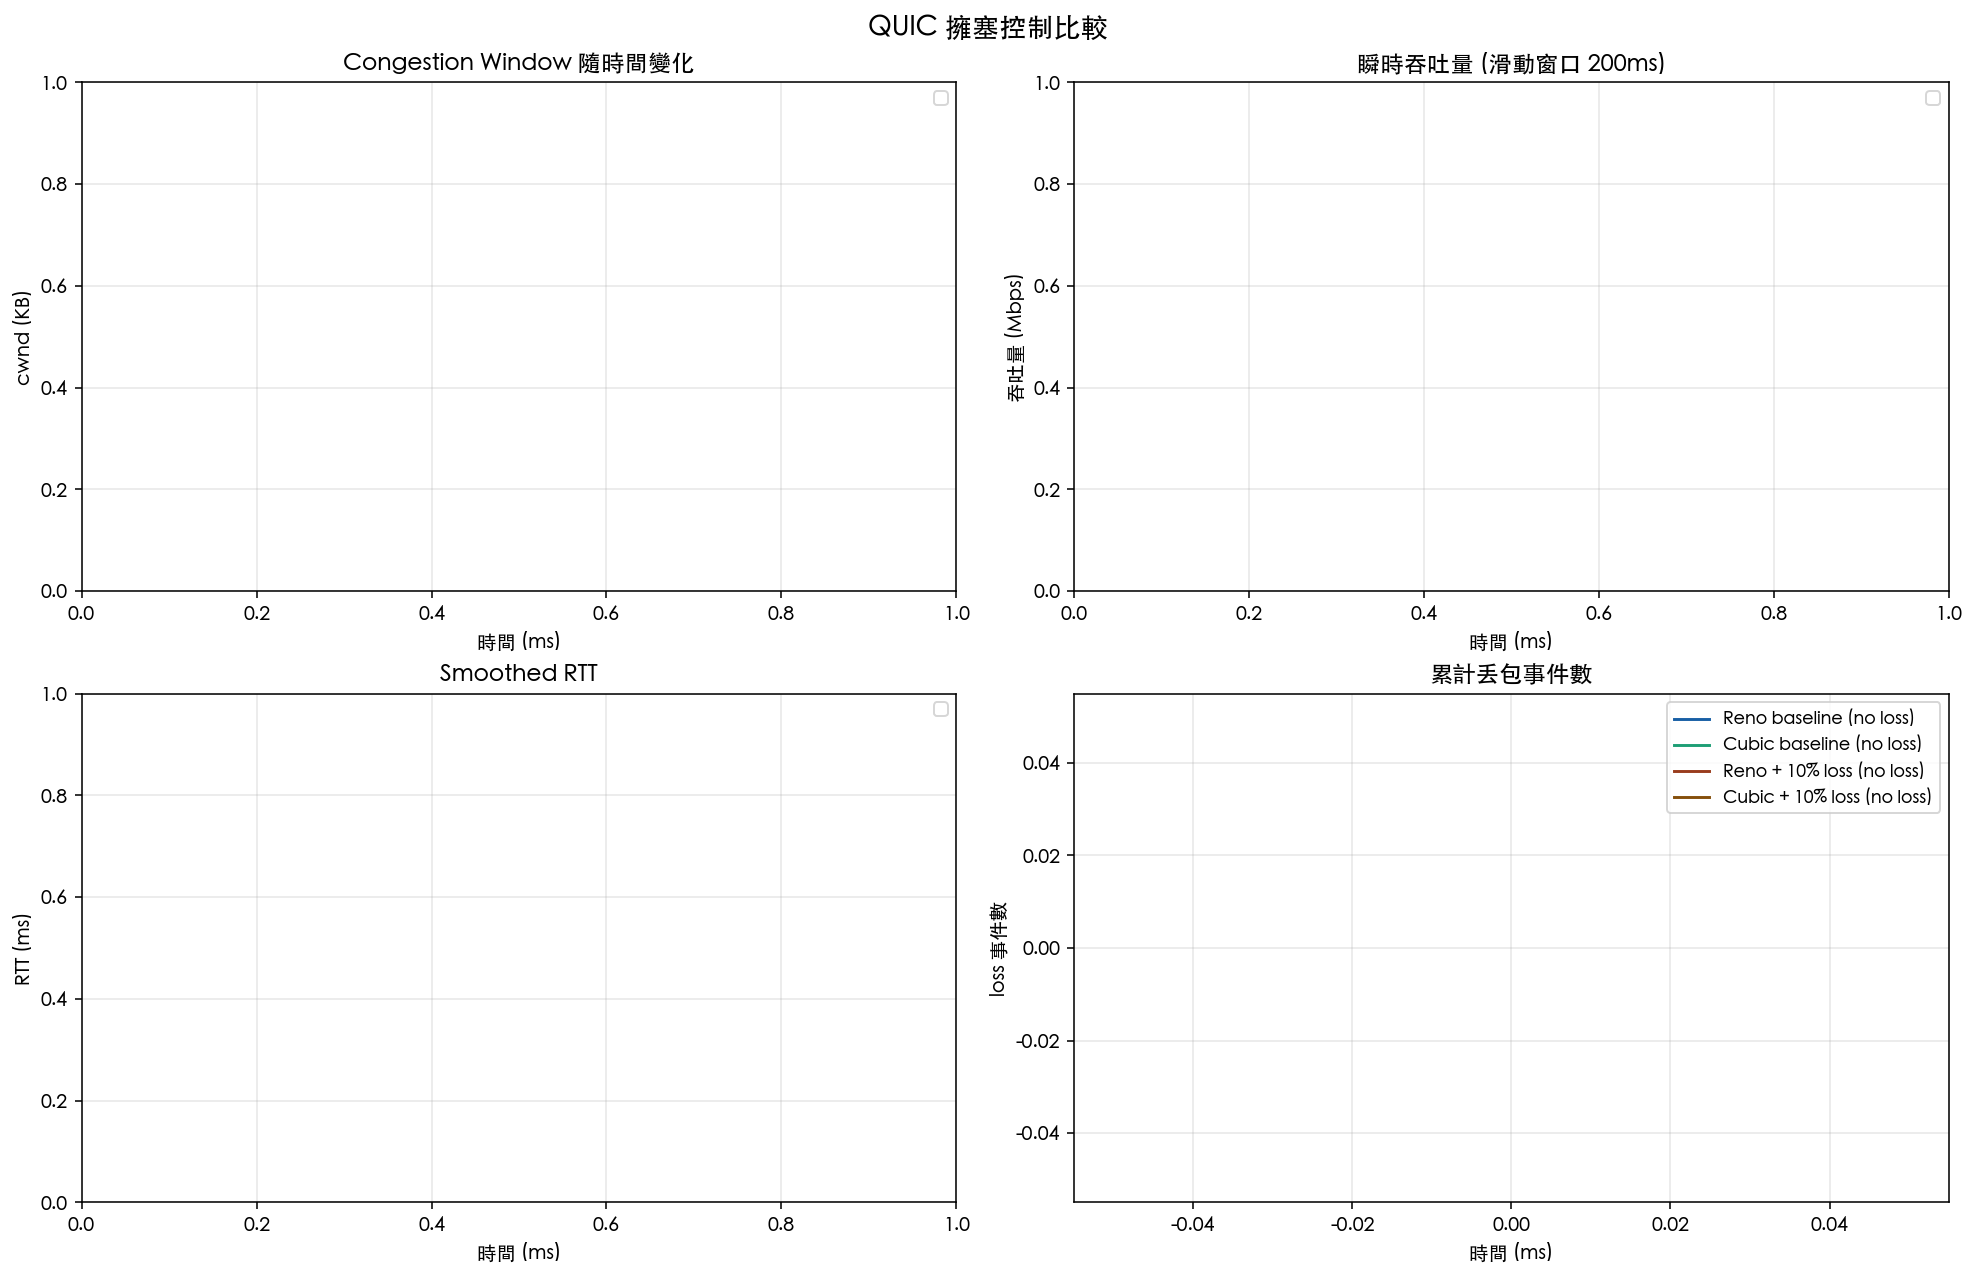
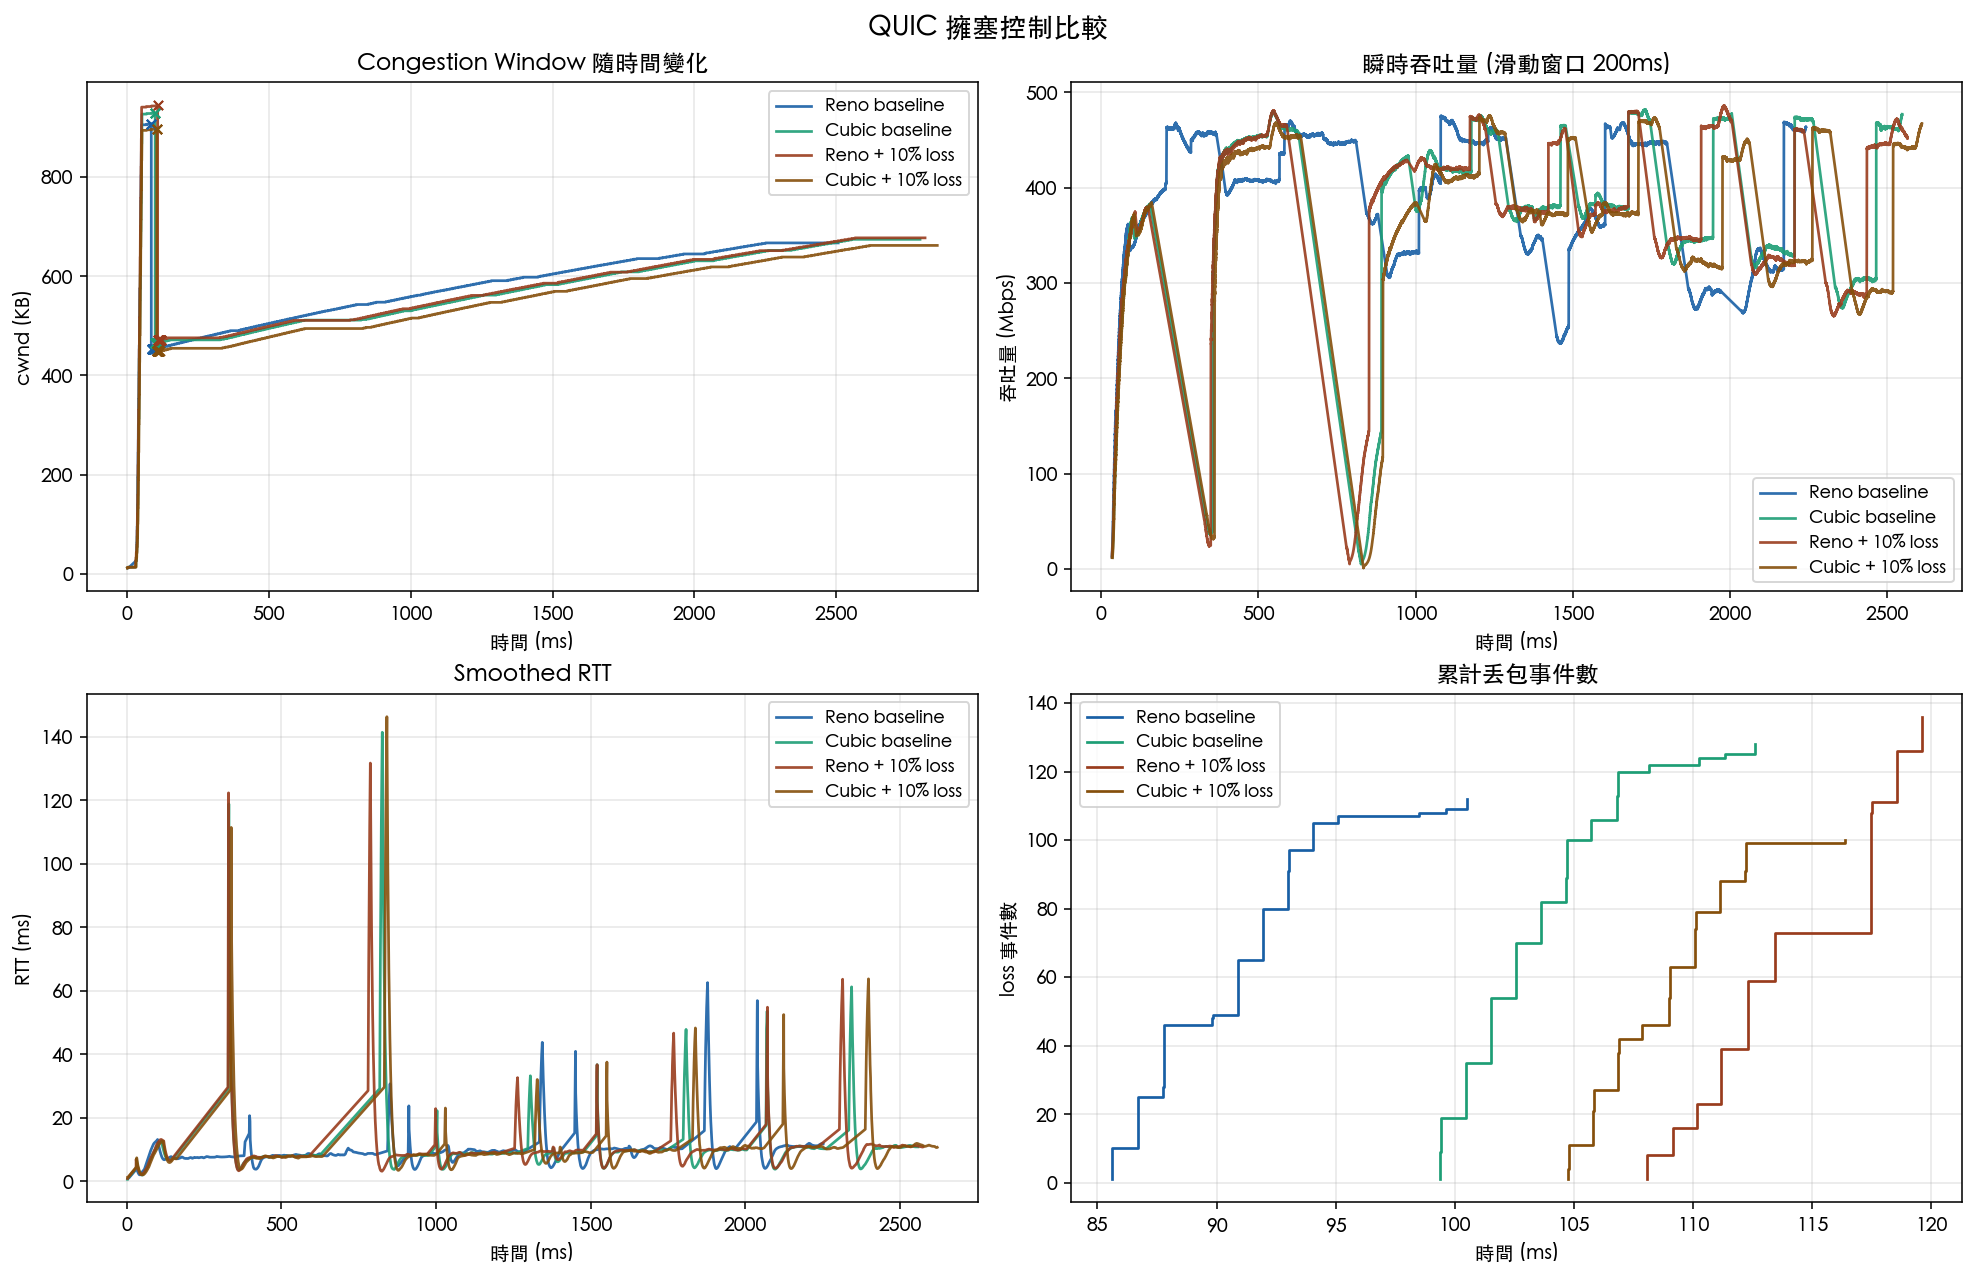
qlog更新邏輯

diff --git a/analyze_qlog.py b/analyze_qlog.py
@@ -217,21 +217,31 @@ def merge_traces(traces: list[Trace], label: str) -> Trace:
 # -------------------------------------------------------------------
 
 def compute_throughput(t_ms: list[float], cum_bytes: list[int],
-                       window_ms: float = 200) -> tuple[list[float], list[float]]:
-    """從累積 bytes 算出滑動窗口的瞬時吞吐量 (Mbps)。"""
+                       window_ms: float = 200,
+                       min_window_ms: float = 50,
+                       min_bytes: int = 50_000) -> tuple[list[float], list[float]]:
+    """從累積 bytes 算出滑動窗口的瞬時吞吐量 (Mbps)。
+
+    為避免起始的「短窗口大數值」尖峰，要求每個窗口至少要有
+      - min_window_ms 毫秒的時間跨度，或者
+      - min_bytes 個 bytes 的樣本量
+    都不滿足就跳過該點。
+    """
     if not t_ms:
         return [], []
     out_t, out_v = [], []
     j = 0
     for i in range(len(t_ms)):
-        # 找出 t[i] - window_ms 之後的最早索引
         while j < i and t_ms[i] - t_ms[j] > window_ms:
             j += 1
-        dt = (t_ms[i] - t_ms[j]) / 1000.0  # 秒
-        if dt <= 0:
-            continue
+        dt_ms = t_ms[i] - t_ms[j]
         dB = cum_bytes[i] - cum_bytes[j]
-        mbps = (dB * 8) / dt / 1_000_000
+        # 過濾「窗口太短或樣本太少」的點，避免假尖峰
+        if dt_ms < min_window_ms and dB < min_bytes:
+            continue
+        if dt_ms <= 0:
+            continue
+        mbps = (dB * 8) / (dt_ms / 1000.0) / 1_000_000
         out_t.append(t_ms[i])
         out_v.append(mbps)
     return out_t, out_v
@@ -279,10 +289,18 @@ def plot_compare(traces: list[Trace], output: str = "compare.png",
             cwnd_kb = [v / 1024 for v in tr.cwnd]
             ax_cwnd.plot(tr.t_cwnd, cwnd_kb, color=c, label=tr.name,
                          linewidth=1.4, alpha=0.9)
-            # loss 點（用半透明垂直線標）
-            if tr.t_loss:
-                for tl in tr.t_loss:
-                    ax_cwnd.axvline(tl, color=c, alpha=0.06, linewidth=0.5)
+            # loss 用稀疏的 × 標在曲線上（取樣到最多 30 個避免太密）
+            if tr.t_loss and tr.t_cwnd:
+                # 為每個 loss 時間點找最接近的 cwnd 值來定位 y
+                import bisect
+                stride = max(1, len(tr.t_loss) // 30)
+                for k in range(0, len(tr.t_loss), stride):
+                    tl = tr.t_loss[k]
+                    j = bisect.bisect_left(tr.t_cwnd, tl)
+                    j = min(j, len(tr.cwnd) - 1)
+                    ax_cwnd.scatter([tl], [tr.cwnd[j] / 1024],
+                                    color=c, marker="x", s=22,
+                                    linewidths=1.0, zorder=5)
 
         # 2) throughput
         # 優先用 sent (server qlog) 否則用 recv (client qlog)
